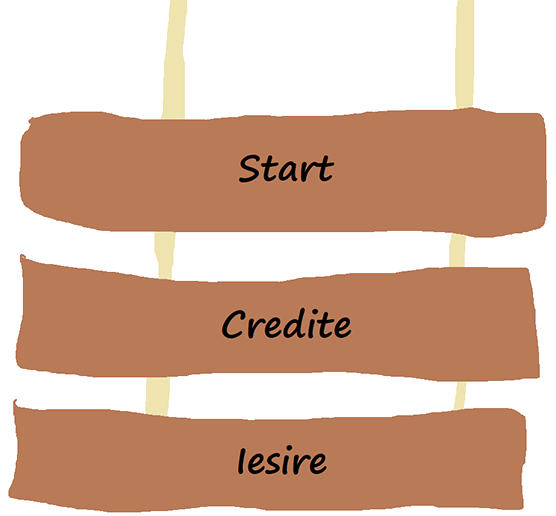
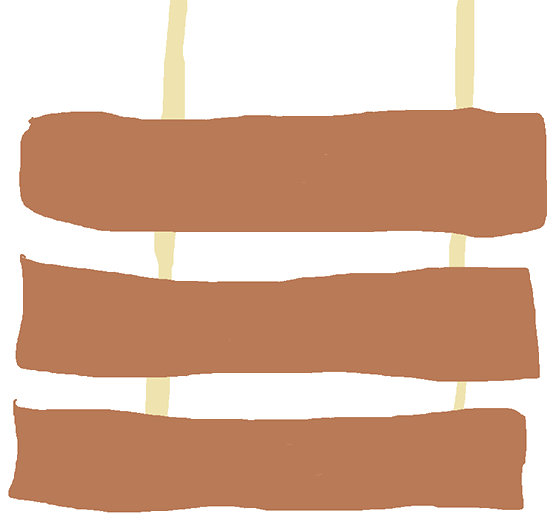
jucat cu pozitia butoanelor

Changed region(s): [[0.3975, 0.5891, 0.6421, 0.6822], [0.4281, 0.2791, 0.6115, 0.3721], [0.4281, 0.8682, 0.5809, 0.9302]]

diff --git a/src/Meniu.java b/src/Meniu.java
@@ -8,12 +8,15 @@ public class Meniu extends JPanel{
     private int selectedButton = 0;
     Buton buton1, buton2, buton3;
     public Meniu(){
-        font = new Font("BlackPearl", Font.PLAIN, 45);
+        font = ResourceManager.get().font.deriveFont(75f);
         FundalMeniu = new Textura(ResourceManager.get().getMeniu("Fundal").GetTex(),(float)Application.getScreenWidth()/2,(float)Application.getScreenHeight()/2,0);
-        SelectiiMeniu = new Textura(ResourceManager.get().getMeniu("Selectii").GetTex(),(float)Application.getScreenWidth()*2/3,(float)Application.getScreenHeight()/2,0);
-        buton1 = new Buton((int) SelectiiMeniu.GetCoordX()-SelectiiMeniu.GetMarimeTexX()/2,(int) SelectiiMeniu.GetCoordY()-SelectiiMeniu.GetMarimeTexY()*3/10,SelectiiMeniu.GetMarimeTexX(),100);
-        buton2 = new Buton((int) SelectiiMeniu.GetCoordX()-SelectiiMeniu.GetMarimeTexX()/2,(int) SelectiiMeniu.GetCoordY()+SelectiiMeniu.GetMarimeTexY()/20,SelectiiMeniu.GetMarimeTexX(),100);
+        SelectiiMeniu = new Textura(ResourceManager.get().getMeniu("Selectii").GetTex(),(float)Application.getScreenWidth()*2/3,(float)Application.getScreenHeight()/3,0);
+        buton1 = new Buton((int) SelectiiMeniu.GetCoordX()-SelectiiMeniu.GetMarimeTexX()/2, (int) ((int) SelectiiMeniu.GetCoordY()-SelectiiMeniu.GetMarimeTexY()*0.26),SelectiiMeniu.GetMarimeTexX(),100);
+        buton1.textButon = "Start";
+        buton2 = new Buton((int) SelectiiMeniu.GetCoordX()-SelectiiMeniu.GetMarimeTexX()/2, (int) ((int) SelectiiMeniu.GetCoordY()+SelectiiMeniu.GetMarimeTexY()*0.03),SelectiiMeniu.GetMarimeTexX(),100);
+        buton2.textButon = "Credite";
         buton3 = new Buton((int) SelectiiMeniu.GetCoordX()-SelectiiMeniu.GetMarimeTexX()/2,(int) SelectiiMeniu.GetCoordY()+SelectiiMeniu.GetMarimeTexY()*3/10,SelectiiMeniu.GetMarimeTexX(),100);
+        buton3.textButon = "Iesire";
     }
     public int UpdateMeniu(){
         //System.out.println("mousex "+MouseStatus.mousex+" mousey "+MouseStatus.mousey);
@@ -55,8 +58,8 @@ public class Meniu extends JPanel{
         g.setFont(font);
         g.setColor(Color.black);
         g.drawString("Corsar",100,300);
-        /*g.drawRect(buton1.x,buton1.y,buton1.width,buton1.height);
-        g.drawRect(buton2.x,buton2.y,buton2.width,buton2.height);
-        g.drawRect(buton3.x,buton3.y,buton3.width,buton3.height);*/
+        buton1.paintComponent(g);
+        buton2.paintComponent(g);
+        buton3.paintComponent(g);
     }
 }

diff --git a/src/Buton.java b/src/Buton.java
@@ -1,10 +1,18 @@
 import java.awt.*;
 
 public class Buton extends Rectangle {
+    public String textButon = null;
     Buton(int x, int y, int width, int height){
         super(x,y,width,height);
     }
     public boolean isSelected(int mousex, int mousey){
         return mousex > x && mousex < x + width && mousey > y && mousey < y + height;
+    }
+    public void paintComponent(Graphics g){
+        g.setFont(ResourceManager.get().font.deriveFont(40f));
+        //g.drawRect(x,y,width,height);
+        if(textButon != null){
+            g.drawString(textButon,x+width/2-ResourceManager.get().font.getSize()*textButon.length()*2/3,y+height/2+ResourceManager.get().font.getSize()/2);
+        }
     }
 }

diff --git a/src/ResourceManager.java b/src/ResourceManager.java
@@ -11,6 +11,7 @@ public class ResourceManager {
     private final Textura fundal1, fundal2, fundal3, loadscreen, fundalMeniu, tunSus, tunJos;
     private final Textura selectiiMeniu, capcana1, capcana2;
     private final Vector<String> nume;
+    public Font font;
     private ResourceManager(){
         try {
             try {
@@ -23,6 +24,7 @@ public class ResourceManager {
             } catch (IOException|FontFormatException e) {
                 e.printStackTrace();
             }
+            font = new Font("BlackPearl", Font.PLAIN, 25);
             texturiBile = new Vector<>();
             texturiCursorPrincipal = new Vector<>();
             texturiCursorSecundar = new Vector<>();
